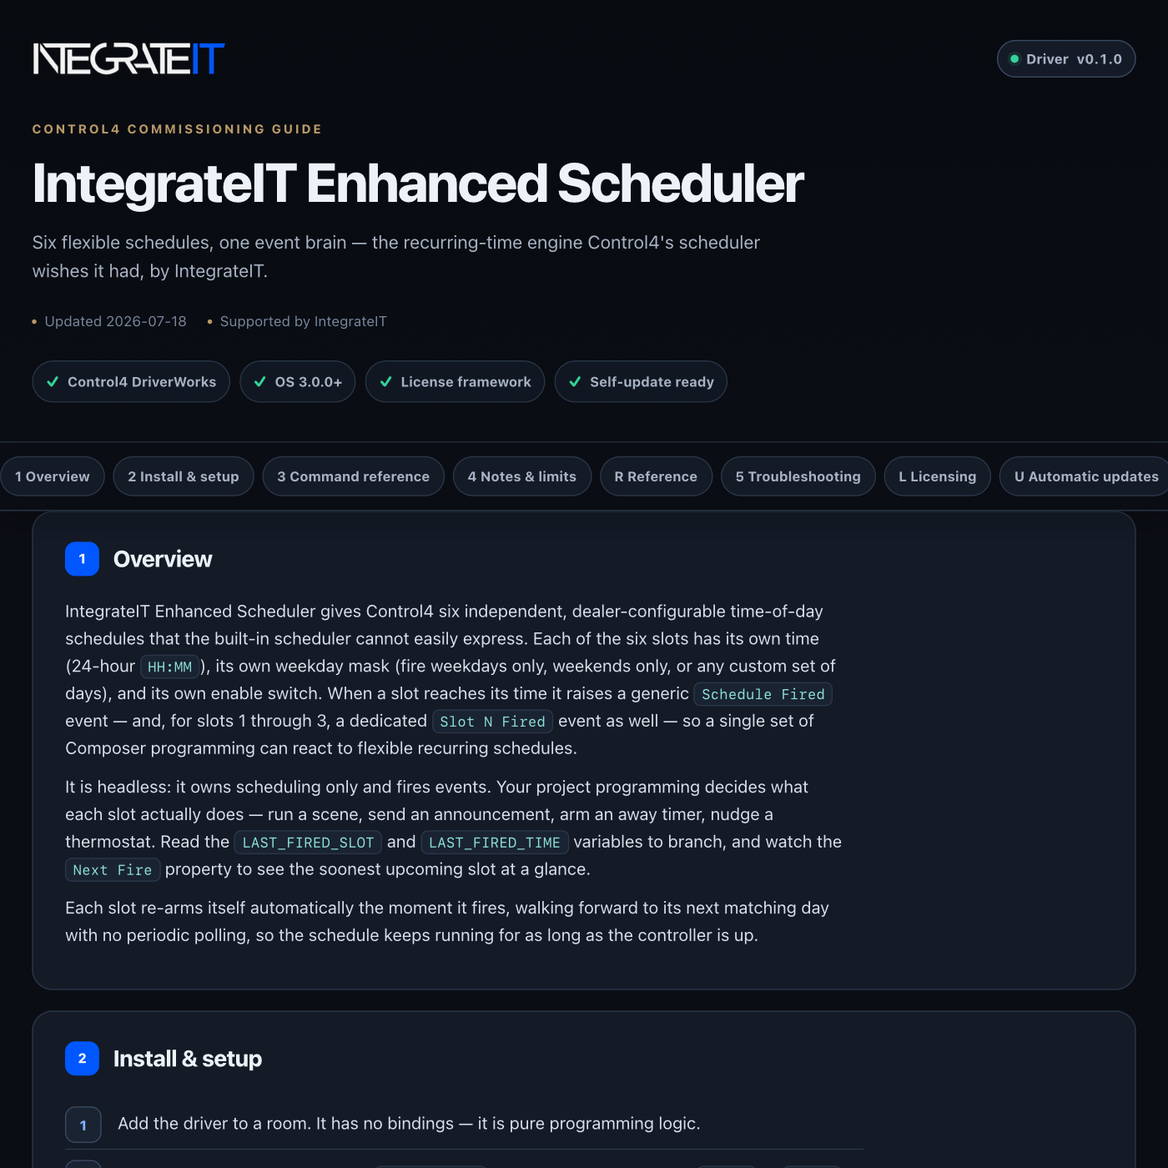
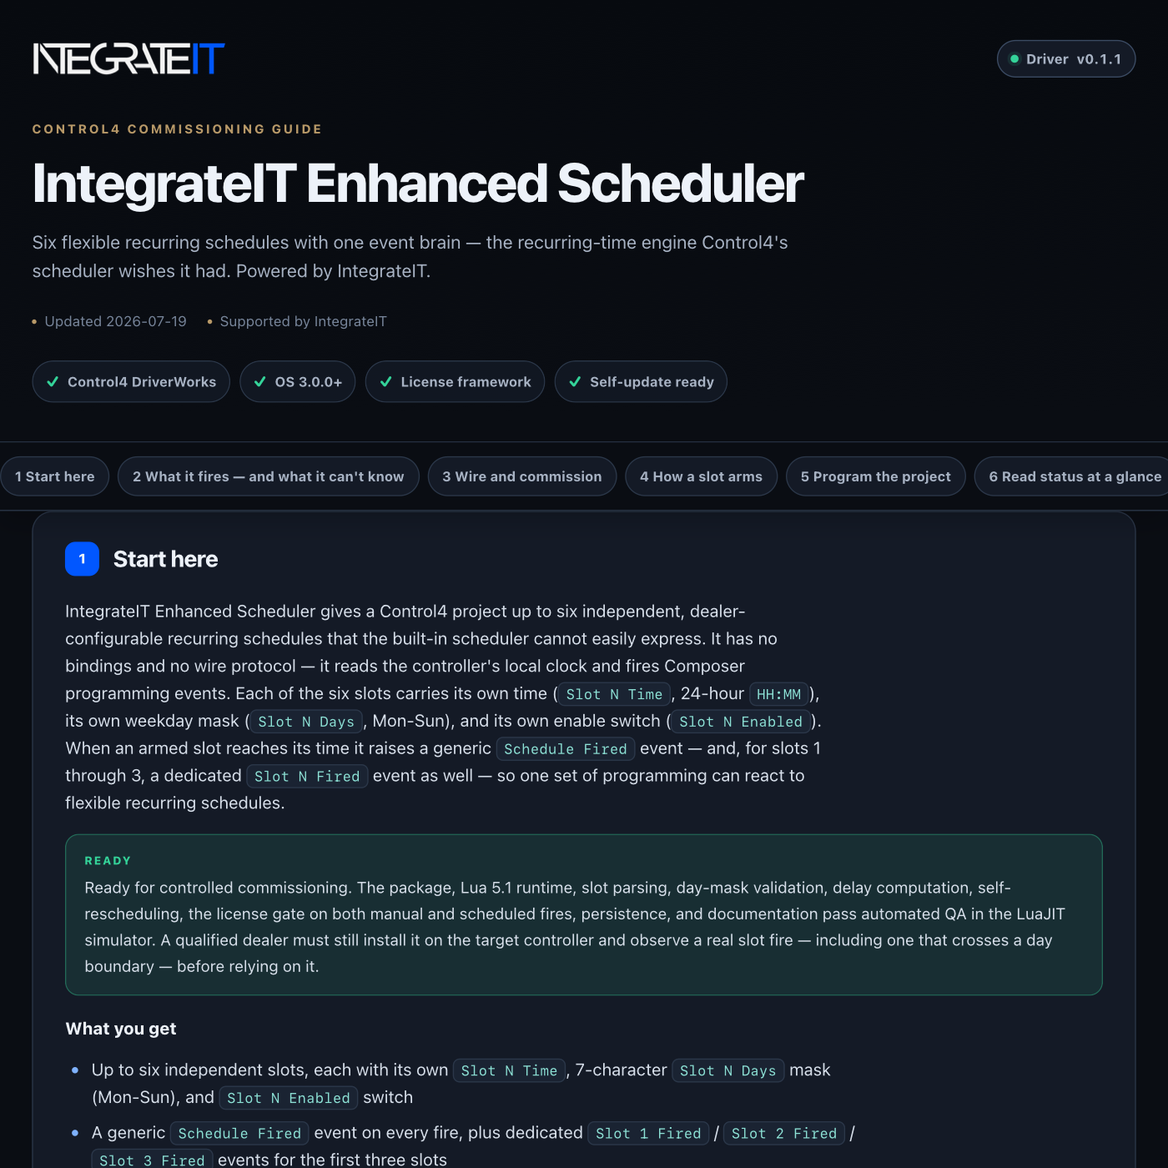
control4: publish driver channel (integrateit_enhanced_scheduler 0.1.2)

diff --git a/control4/integrateit_enhanced_scheduler/documentation.html b/control4/integrateit_enhanced_scheduler/documentation.html
@@ -179,13 +179,13 @@ td code{white-space:normal}
     <div class="wrap">
       <div class="brandbar">
[1 lines of base64/hex data omitted]
-        <span class="version"><span class="word">Driver</span> v0.1.1</span>
+        <span class="version"><span class="word">Driver</span> v0.1.2</span>
       </div>
       <p class="eyebrow">Control4 commissioning guide</p>
       <h1>IntegrateIT Enhanced Scheduler</h1>
-      <p class="sub">Six flexible schedules, one event brain — the recurring-time engine Control4's scheduler wishes it had, by IntegrateIT.</p>
+      <p class="sub">Six flexible recurring schedules with one event brain — the recurring-time engine Control4's scheduler wishes it had. Powered by IntegrateIT.</p>
       <div class="meta">
-        <span>Updated 2026-07-19</span>
+        <span>Updated 2026-07-26</span>
         <span>Supported by IntegrateIT</span>
       </div>
       <div class="readiness" aria-label="Driver capabilities">
@@ -198,53 +198,123 @@ td code{white-space:normal}
   </header>
 
   <div class="toc-wrap">
-    <nav class="toc wrap" aria-label="Documentation sections"><a href="#overview">1 Overview</a><a href="#install">2 Install &amp; setup</a><a href="#commands">3 Command reference</a><a href="#notes">4 Notes &amp; limits</a><a href="#reference">R Reference</a><a href="#troubleshooting">5 Troubleshooting</a><a href="#licensing">L Licensing</a><a href="#updates">U Automatic updates</a><a href="#changelog">V Version history</a></nav>
+    <nav class="toc wrap" aria-label="Documentation sections"><a href="#overview">1 Start here</a><a href="#contract">2 What it fires — and what it can't know</a><a href="#setup">3 Wire and commission</a><a href="#model">4 How a slot arms</a><a href="#programming">5 Program the project</a><a href="#status">6 Read status at a glance</a><a href="#troubleshooting">7 Troubleshoot methodically</a><a href="#trust">8 Ownership, privacy, and licensing</a><a href="#reference">R Reference</a><a href="#licensing">L Licensing</a><a href="#updates">U Automatic updates</a><a href="#changelog">V Version history</a></nav>
   </div>
 
   <main class="wrap">
     <section class="card" id="overview" data-card="overview">
-  <h2><span class="n">1</span> Overview</h2>
-  <p>IntegrateIT Enhanced Scheduler gives Control4 six independent, dealer-configurable time-of-day schedules that the built-in scheduler cannot easily express. Each of the six slots has its own time (24-hour <code>HH:MM</code>), its own weekday mask (fire weekdays only, weekends only, or any custom set of days), and its own enable switch. When a slot reaches its time it raises a generic <code>Schedule Fired</code> event — and, for slots 1 through 3, a dedicated <code>Slot N Fired</code> event as well — so a single set of Composer programming can react to flexible recurring schedules.</p>
-  <p>It is headless: it owns scheduling only and fires events. Your project programming decides what each slot actually does — run a scene, send an announcement, arm an away timer, nudge a thermostat. Read the <code>LAST_FIRED_SLOT</code> and <code>LAST_FIRED_TIME</code> variables to branch, and watch the <code>Next Fire</code> property to see the soonest upcoming slot at a glance.</p>
-  <p>Each slot re-arms itself automatically the moment it fires, walking forward to its next matching day with no periodic polling, so the schedule keeps running for as long as the controller is up.</p>
+  <h2><span class="n">1</span> Start here</h2>
+  <p>IntegrateIT Enhanced Scheduler gives a Control4 project up to six independent, dealer-configurable recurring schedules that the built-in scheduler cannot easily express. It has no bindings and no wire protocol — it reads the controller's local clock and fires Composer programming events. Each of the six slots carries its own time (<code>Slot N Time</code>, 24-hour <code>HH:MM</code>), its own weekday mask (<code>Slot N Days</code>, Mon-Sun), and its own enable switch (<code>Slot N Enabled</code>). When an armed slot reaches its time it raises a generic <code>Schedule Fired</code> event — and, for slots 1 through 3, a dedicated <code>Slot N Fired</code> event as well — so one set of programming can react to flexible recurring schedules.</p>
+  <div class="note good">Ready for controlled commissioning. The package, Lua 5.1 runtime, slot parsing, day-mask validation, delay computation, self-rescheduling, the license gate on both manual and scheduled fires, persistence, and documentation pass automated QA in the LuaJIT simulator. A qualified dealer must still install it on the target controller and observe a real slot fire — including one that crosses a day boundary — before relying on it.</div>
+  <p><b>What you get</b></p>
+  <ul>
+    <li>Up to six independent slots, each with its own <code>Slot N Time</code>, 7-character <code>Slot N Days</code> mask (Mon-Sun), and <code>Slot N Enabled</code> switch</li>
+    <li>A generic <code>Schedule Fired</code> event on every fire, plus dedicated <code>Slot 1 Fired</code> / <code>Slot 2 Fired</code> / <code>Slot 3 Fired</code> events for the first three slots</li>
+    <li><code>LAST_FIRED_SLOT</code> and <code>LAST_FIRED_TIME</code> variables to branch programming, and a read-only <code>Next Fire</code> property previewing the soonest armed slot</li>
+    <li><code>Fire Slot 1</code> … <code>Fire Slot 6</code> actions to test programming on demand, plus <code>Recompute Schedule</code> and <code>Print Schedule</code></li>
+    <li>Self-rescheduling: each slot arms a single timer to its next matching day and re-arms after it fires — the clock is read once per compute, never polled</li>
+    <li>DST-correct arming: across a Daylight Saving transition a slot still fires at its configured wall-clock time</li>
+    <li>MAC-locked IntegrateIT licensing (Lenient or Strict) gating both manual and scheduled fires</li>
+  </ul>
 </section>
 
-<section class="card" id="install" data-card="install">
-  <h2><span class="n">2</span> Install &amp; setup</h2>
+<section class="card" id="contract" data-card="contract">
+  <h2><span class="n">2</span> What it fires — and what it can't know</h2>
+  <p>This driver owns scheduling only. Its entire job is to compute when each armed slot next matches, raise events at that instant, and re-arm. It runs no scene, sends no announcement, and arms no security mode — project programming decides what each fire does. If a slot fires and nothing happens in the home, the driver did its job and the programming is missing or wrong.</p>
+  <ul>
+    <li>It cannot know whether any programming ran. <code>Schedule Fired</code> means "an armed slot's time arrived, or you pressed Fire Slot N" — nothing more. Anything claiming the scene actually executed would be faking it.</li>
+    <li>It reads controller-local wall-clock only. There is no sunrise/sunset, no astronomical offset, and no external time source; a slot fires at the same clock time on each matching day.</li>
+    <li>An unparseable time or a structurally unusable day mask is rejected and the slot is left un-armed, never guessed. See <b>How a slot arms</b> for the exact rules.</li>
+    <li>The last-fired record survives a controller restart as <b>state only</b>. On boot the driver restores <code>LAST_FIRED_SLOT</code> / <code>LAST_FIRED_TIME</code> and fires no events; nothing that would have fired while the controller was down is replayed.</li>
+  </ul>
+</section>
+
+<section class="card" id="setup" data-card="setup">
+  <h2><span class="n">3</span> Wire and commission</h2>
   <ol class="steps">
-    <li>Add the driver to a room. It has no bindings — it is pure programming logic.</li>
+    <li>Add <b>IntegrateIT Enhanced Scheduler</b> to a room. It has no bindings — it is pure programming logic, so there is nothing to connect.</li>
     <li>For each schedule you want, set <code>Slot N Time</code> to a 24-hour time such as <code>07:30</code> or <code>22:00</code>. Leave a slot's time blank to keep it dormant.</li>
-    <li>Set <code>Slot N Days</code> to the weekday mask, in Monday-through-Sunday order. A letter present means fire that day; a <code>-</code> skips it. Examples: <code>MTWTFSS</code> = every day, <code>MTWTF--</code> = weekdays only, <code>-----SS</code> = weekends only.</li>
-    <li>Set <code>Slot N Enabled</code> to <b>Yes</b> to arm the slot. Slots ship disabled so nothing fires until you turn it on.</li>
-    <li>In Programming, react to <b>Schedule Fired</b> (all slots) and/or <b>Slot 1/2/3 Fired</b> (those slots specifically). For slots 4-6, branch on the <code>LAST_FIRED_SLOT</code> variable inside your Schedule Fired handler.</li>
-    <li>Use <b>Recompute Schedule</b> after bulk edits, and <b>Fire Slot N</b> to test your programming without waiting for the clock. The <code>Next Fire</code> property shows the next slot that will fire.</li>
+    <li>Set <code>Slot N Days</code> to a 7-character Mon-through-Sun mask: a letter fires that day, a <code>-</code> skips it. <code>MTWTFSS</code> is every day, <code>MTWTF--</code> is weekdays, <code>-----SS</code> is weekends.</li>
+    <li>Set <code>Slot N Enabled</code> to <b>Yes</b> to arm the slot. Every slot ships <b>No</b>, so nothing fires until you turn it on.</li>
+    <li>In Composer Programming, react to <b>Schedule Fired</b> (any slot) and/or <b>Slot 1/2/3 Fired</b> (those slots specifically). For slots 4-6, branch on the <code>LAST_FIRED_SLOT</code> variable inside a <b>Schedule Fired</b> handler.</li>
+    <li>Prove it works: press <b>Fire Slot N</b> on the Actions tab and confirm your programming runs and <code>LAST_FIRED_SLOT</code> updates. Then set a <code>Slot N Time</code> a couple of minutes ahead, watch the <code>Next Fire</code> property preview it, and wait for the fire to land.</li>
   </ol>
 </section>
 
-<section class="card" id="commands" data-card="commands">
-  <h2><span class="n">3</span> Command reference</h2>
+<section class="card" id="model" data-card="model">
+  <h2><span class="n">4</span> How a slot arms</h2>
+  <p>The driver reads the clock <b>once</b>, computes the milliseconds to the slot's next matching occurrence, and arms a single timer — it never polls the clock in a loop. When a slot fires it re-arms for its next matching day, so the six timers walk forward indefinitely with no periodic tick. Editing any slot property, or running <b>Recompute Schedule</b>, re-arms the whole schedule and refreshes <code>Next Fire</code>; a commissioning edit never itself fires programming.</p>
   <table>
-    <tr><th>Action</th><th>What it does</th></tr>
-    <tr><td>Fire Slot 1 … Fire Slot 6</td><td>Manually fire that slot right now — raises its events and sets <code>LAST_FIRED_SLOT</code> / <code>LAST_FIRED_TIME</code> — without disturbing the armed schedule. Handy for testing programming.</td></tr>
-    <tr><td>Recompute Schedule</td><td>Re-read every slot's time, day mask, and enable state and re-arm the timers. Run this after editing several slots at once.</td></tr>
-    <tr><td>Print Schedule</td><td>Print all six slots (time, days, enabled) plus the next and last fire to the Lua output window.</td></tr>
+    <tr><th>Rule</th><th>Behavior</th></tr>
+    <tr><td><code>Slot N Time</code></td><td>Must be <code>HH:MM</code> in 00:00–23:59. Blank or malformed (<code>99:99</code>, <code>7pm</code>) is rejected and logged; the slot is not armed.</td></tr>
+    <tr><td><code>Slot N Days</code> length</td><td>Exactly 7 characters, one per weekday Mon-Sun. A wrong length (<code>MTWTF</code>, <code>Weekdays</code>) is structurally unusable: it is rejected, and the slot is neither armed nor previewed.</td></tr>
+    <tr><td><code>Slot N Days</code> content</td><td>Only a <b>letter</b> enables a day. <code>-</code>, a space, or a stray symbol leaves that day off. A right-length mask with a stray symbol logs a warning, arms anyway, and treats the stray position as off — a typo can never silently fire on the wrong day.</td></tr>
+    <tr><td>Mask enables no day</td><td>If the mask has no letters, nothing is armed and <code>Next Fire</code> reads <code>None</code>.</td></tr>
+    <tr><td>DST</td><td>Each slot arms a relative timer. On the one day a Daylight Saving transition occurs, the driver reconstructs the target calendar day through the controller clock so the fire lands at the correct wall-clock time; every other day is unaffected.</td></tr>
   </table>
-  <p><b>Events:</b> *Schedule Fired* (every slot), *Slot 1 Fired*, *Slot 2 Fired*, *Slot 3 Fired*. <b>Variables:</b> <code>LAST_FIRED_SLOT</code> (number), <code>LAST_FIRED_TIME</code> (string). <b>Property:</b> <code>Next Fire</code> (read-only preview).</p>
 </section>
 
-<section class="card" id="notes" data-card="notes">
-  <h2><span class="n">4</span> Notes &amp; limits</h2>
+<section class="card" id="programming" data-card="programming">
+  <h2><span class="n">5</span> Program the project</h2>
+  <table>
+    <tr><th>Action</th><th>What it does</th></tr>
+    <tr><td>Fire Slot 1 … Fire Slot 6</td><td>Fire that slot now — raise its events and set <code>LAST_FIRED_SLOT</code> / <code>LAST_FIRED_TIME</code> — without disturbing its armed timer. Use it to test programming.</td></tr>
+    <tr><td>Recompute Schedule</td><td>Re-read every slot's time, day mask, and enable state, re-arm all timers, and refresh <code>Next Fire</code>. Run after editing several slots at once.</td></tr>
+    <tr><td>Print Schedule</td><td>Print all six slots (time, days, enabled), plus <code>Next Fire</code> and the last fire, to the Lua output window. It never prints the license key.</td></tr>
+  </table>
+  <table>
+    <tr><th>Event</th><th>Meaning</th></tr>
+    <tr><td><code>Schedule Fired</code></td><td>Any armed slot reached its time, or <b>Fire Slot N</b> was pressed. Branch on <code>LAST_FIRED_SLOT</code>.</td></tr>
+    <tr><td><code>Slot 1 Fired</code> / <code>Slot 2 Fired</code> / <code>Slot 3 Fired</code></td><td>That slot specifically fired; raised alongside <code>Schedule Fired</code>. Slots 4-6 have no dedicated event.</td></tr>
+  </table>
+  <table>
+    <tr><th>Variable</th><th>Type</th><th>Meaning</th></tr>
+    <tr><td><code>LAST_FIRED_SLOT</code></td><td>NUMBER</td><td>Slot number of the last fire (<code>0</code> before any). Persists across reboot.</td></tr>
+    <tr><td><code>LAST_FIRED_TIME</code></td><td>STRING</td><td>Canonical <code>HH:MM</code> of the last fire. Persists across reboot.</td></tr>
+  </table>
+  <p>Recipes using this driver's real names:</p>
   <ul>
-    <li>Slots 4, 5, and 6 fire the generic <code>Schedule Fired</code> event only — they have no dedicated per-slot event. Branch on <code>LAST_FIRED_SLOT</code> inside your Schedule Fired programming to tell them apart.</li>
-    <li>Times are controller-local wall-clock. A slot fires at the same clock time on each matching day; there are no sunrise/sunset offsets.</li>
-    <li>An unparseable <code>Slot N Time</code> (anything not <code>HH:MM</code>, 00:00–23:59) is rejected and the slot is left un-armed — check the <code>Next Fire</code> property or turn on Debug to confirm what armed.</li>
-    <li>The <code>Slot N Days</code> mask must be exactly 7 characters, one per weekday in Monday-through-Sunday order. Only a letter enables a day; <code>-</code>, a space, or any stray symbol leaves that day off. A mask that is not 7 characters (e.g. <code>Weekdays</code> or <code>MTWTF</code>) is rejected and the slot is left un-armed, and a mask with stray symbols logs a warning and treats those positions as off — so a typo can never silently fire on the wrong day. Use <b>Print Schedule</b> with Debug on to see what each slot armed.</li>
-    <li>Times are controller-local wall-clock and each slot arms a single relative timer to its next occurrence, re-arming after it fires. On the one day a Daylight Saving Time transition occurs, the driver reconstructs the target calendar day through the controller's clock so the fire lands at the correct wall-clock time across the change; every other day is unaffected.</li>
-    <li>The last-fired record (<code>LAST_FIRED_SLOT</code> / <code>LAST_FIRED_TIME</code>) survives a controller restart. Restoring it on boot updates the variables only; it fires no programming.</li>
+    <li><b>Weekday wake-up.</b> <code>Slot 1 Time</code> = <code>06:30</code>, <code>Slot 1 Days</code> = <code>MTWTF--</code>, <code>Slot 1 Enabled</code> = Yes. Program: *When <code>Slot 1 Fired</code> → turn on the kitchen lights.*</li>
+    <li><b>Nightly away-arm on a slot without a per-slot event.</b> <code>Slot 4 Time</code> = <code>23:00</code>, <code>Slot 4 Days</code> = <code>MTWTFSS</code>. Program: *When <code>Schedule Fired</code> → if <code>LAST_FIRED_SLOT</code> is 4 → set the security system to Away.* Slots 4-6 have no dedicated event, so key off <code>Schedule Fired</code> plus <code>LAST_FIRED_SLOT</code>.</li>
+    <li><b>One key, many slots.</b> *When <code>Schedule Fired</code> → branch on <code>LAST_FIRED_SLOT</code> (1–6)* to run a different scene per slot from a single program.</li>
   </ul>
+  <p>Under Strict enforcement on an unlicensed controller, both manual and scheduled fires are suppressed — no events, <code>LAST_FIRED_SLOT</code> unchanged — while timers keep re-arming and <code>Next Fire</code> keeps updating, so firing resumes the instant a key activates. The default Lenient mode fires normally during commissioning while <code>License Status</code> carries the nag.</p>
+</section>
+
+<section class="card" id="status" data-card="status">
+  <h2><span class="n">6</span> Read status at a glance</h2>
+  <table>
+    <tr><th>Property / variable</th><th>Healthy result</th><th>What to do otherwise</th></tr>
+    <tr><td><code>Next Fire</code></td><td><code>Slot N HH:MM -&gt; Www HH:MM</code>, the soonest armed slot</td><td><code>None</code> means no slot is armed — check Enabled, a valid time, and a mask with at least one letter</td></tr>
+    <tr><td><code>LAST_FIRED_SLOT</code></td><td>The slot that last fired (<code>0</code> before any)</td><td>Still <code>0</code> after a fire should have happened: Strict + unlicensed — check <code>License Status</code></td></tr>
+    <tr><td><code>LAST_FIRED_TIME</code></td><td>Canonical <code>HH:MM</code> of the last fire</td><td>Blank before the first fire</td></tr>
+    <tr><td><code>License Status</code></td><td>Activated, or Lenient during commissioning</td><td>Enter a <code>License Key</code> before selecting Strict enforcement</td></tr>
+  </table>
+  <p>Run <b>Print Schedule</b> with Debug on for a full snapshot of every slot's time, days, and enabled state at once.</p>
+</section>
+
+<section class="card" id="troubleshooting" data-card="troubleshooting">
+  <h2><span class="n">7</span> Troubleshoot methodically</h2>
+  <table>
+    <tr><th>Symptom</th><th>Likely cause</th><th>Fix</th></tr>
+    <tr><td>Nothing fires at all, and <code>LAST_FIRED_SLOT</code> stays <code>0</code></td><td>Strict enforcement on an unlicensed controller</td><td>Check <code>License Status</code>; Lenient mode fires without a key, or activate a <code>License Key</code>.</td></tr>
+    <tr><td>A single slot never fires</td><td><code>Slot N Enabled</code> is No, the time is blank/invalid, or the mask has no letters or a wrong length</td><td>Set Enabled to Yes, enter a valid <code>HH:MM</code>, and give the mask a letter for at least one day in exactly 7 characters.</td></tr>
+    <tr><td>Fires on the wrong day</td><td>Day-mask order misread</td><td>The mask is Monday-first: position 1 = Mon … position 7 = Sun. <code>-----SS</code> is weekends.</td></tr>
+    <tr><td>Slot 4/5/6 programming never runs</td><td>Listening for a <code>Slot 4/5/6 Fired</code> event that does not exist</td><td>Listen for <code>Schedule Fired</code> and branch on <code>LAST_FIRED_SLOT == 4/5/6</code>.</td></tr>
+    <tr><td><code>Next Fire</code> shows a later day than expected</td><td>Today's time already passed, or today is masked off</td><td>Correct — the slot skips to its next matching day.</td></tr>
+    <tr><td>A fire lands an hour off around a clock change</td><td>The controller's own clock or time zone is wrong</td><td>The driver is DST-correct; verify the controller time settings.</td></tr>
+  </table>
+  <div class="note warn">If a slot still will not fire after these checks, turn on <code>Debug Mode → Print</code>, run <b>Print Schedule</b> to see exactly what each slot armed, and send the Lua output to support@integrateit.tech · (913) 804-7575.</div>
+</section>
+
+<section class="card" id="trust" data-card="trust">
+  <h2><span class="n">8</span> Ownership, privacy, and licensing</h2>
+  <p>This package is an original IntegrateIT implementation built on documented Control4 timer, variable, and event contracts. It does not bundle another vendor's runtime, source code, brand assets, trial system, or license. Driver engineering, Control4 integration, documentation, QA, licensing, updates, and support are provided by IntegrateIT.</p>
+  <p>Nothing leaves the LAN. The scheduler sends no schedule, no fire history, and no project identity anywhere — it reads only the controller's local clock and writes only Control4 events, variables, and its own last-fired record, which lives on the controller in persisted driver state and is never transmitted. The <code>License Key</code> is never logged or printed; <b>Print Schedule</b> and the debug log omit it. The shared IntegrateIT license and update services use the controller identity, driver slug, version, configured license key, and update channel as documented in the reference below.</p>
+  <p>Lenient mode allows commissioning without an activated key and keeps <code>License Status</code> visible. Strict mode suppresses every fire — manual and scheduled — until the Ops Portal has minted and validated a key for that controller, while the timers keep re-arming so firing resumes the instant a key activates. Installing this package does not itself mint or activate a controller license.</p>
 <section class="card" id="reference" data-card="reference">
   <h2><span class="n">R</span> Reference</h2>
-  <p>Generated from the driver manifest at build time — always matches this build (v0.1.1).</p>
+  <p>Generated from the driver manifest at build time — always matches this build (v0.1.2).</p>
   <h3>Properties</h3>
   <table>
     <tr><th>Property</th><th>Type</th><th>Default</th><th>Description</th></tr>
@@ -310,18 +380,6 @@ td code{white-space:normal}
   </table>
 </section>
 </section>
-
-<section class="card" id="troubleshooting" data-card="troubleshooting">
-  <h2><span class="n">5</span> Troubleshooting</h2>
-  <table>
-    <tr><th>Symptom</th><th>Likely cause</th><th>Fix</th></tr>
-    <tr><td>A slot never fires</td><td><code>Slot N Enabled</code> is No, the time is blank/invalid, or the day mask excludes every day</td><td>Set Enabled to Yes, enter a valid <code>HH:MM</code>, and confirm the mask has a letter for at least one day.</td></tr>
-    <tr><td>Fires on the wrong days</td><td>Day mask order misread</td><td>The mask is Monday-first: position 1 = Mon … position 7 = Sun. <code>-----SS</code> is weekends.</td></tr>
-    <tr><td>Slot 4/5/6 programming never runs</td><td>Listening for a <code>Slot 4/5/6 Fired</code> event that does not exist</td><td>Listen for <code>Schedule Fired</code> and branch on <code>LAST_FIRED_SLOT == 4/5/6</code>.</td></tr>
-    <tr><td>Nothing happens at all</td><td>Strict enforcement + unlicensed</td><td>Check <code>License Status</code>; Lenient mode keeps control enabled without a key.</td></tr>
-  </table>
-  <div class="note">Turn on <code>Debug Mode → Print</code> and use <b>Print Schedule</b> to watch every slot's armed state and each fire in the Lua output window.</div>
-</section>
 <section class="card" id="licensing" data-card="licensing">
   <h2><span class="n">L</span> Licensing</h2>
   <p>This driver is licensed <b>per controller</b>. Each license key locks to one controller's
@@ -369,7 +427,9 @@ td code{white-space:normal}
     <section class="card" id="changelog" data-card="changelog">
   <h2><span class="n">V</span> Version history</h2>
   <div class="chg">
-    <div class="rel"><b>v0.1.1</b> <span class="pill green">current</span><span class="d">2026-07-19</span>
+    <div class="rel"><b>v0.1.2</b> <span class="pill green">current</span><span class="d">2026-07-26</span>
+      <ul><li>Documentation rebuilt to the IntegrateIT commissioning-guide standard: uniform sections, honest contracts, verified claim-by-claim against the code.</li></ul></div>
+    <div class="rel"><b>v0.1.1</b><span class="d">2026-07-19</span>
       <ul><li>Hardware-test-worthy polish: correctness, edge-case, timer-hygiene and hardware-readiness fixes with a regression test added per fix</li><li>Shared runtime: a transient license-server error no longer de-licenses a paying controller; repeating-timer callbacks are crash-guarded</li></ul></div>
     <div class="rel"><b>v0.1.0</b><span class="d">2026-07-18</span>
       <ul><li>Initial scaffold (template: blank).</li></ul></div>

diff --git a/control4/integrateit_enhanced_scheduler/CHANGELOG.md b/control4/integrateit_enhanced_scheduler/CHANGELOG.md
@@ -1,5 +1,8 @@
 # Changelog — IntegrateIT Enhanced Scheduler
 
+## [0.1.2] - 2026-07-26
+- Documentation rebuilt to the IntegrateIT commissioning-guide standard: uniform sections, honest contracts, verified claim-by-claim against the code.
+
 ## [0.1.1] - 2026-07-19
 - Hardware-test-worthy polish: correctness, edge-case, timer-hygiene and hardware-readiness fixes with a regression test added per fix
 - Shared runtime: a transient license-server error no longer de-licenses a paying controller; repeating-timer callbacks are crash-guarded
